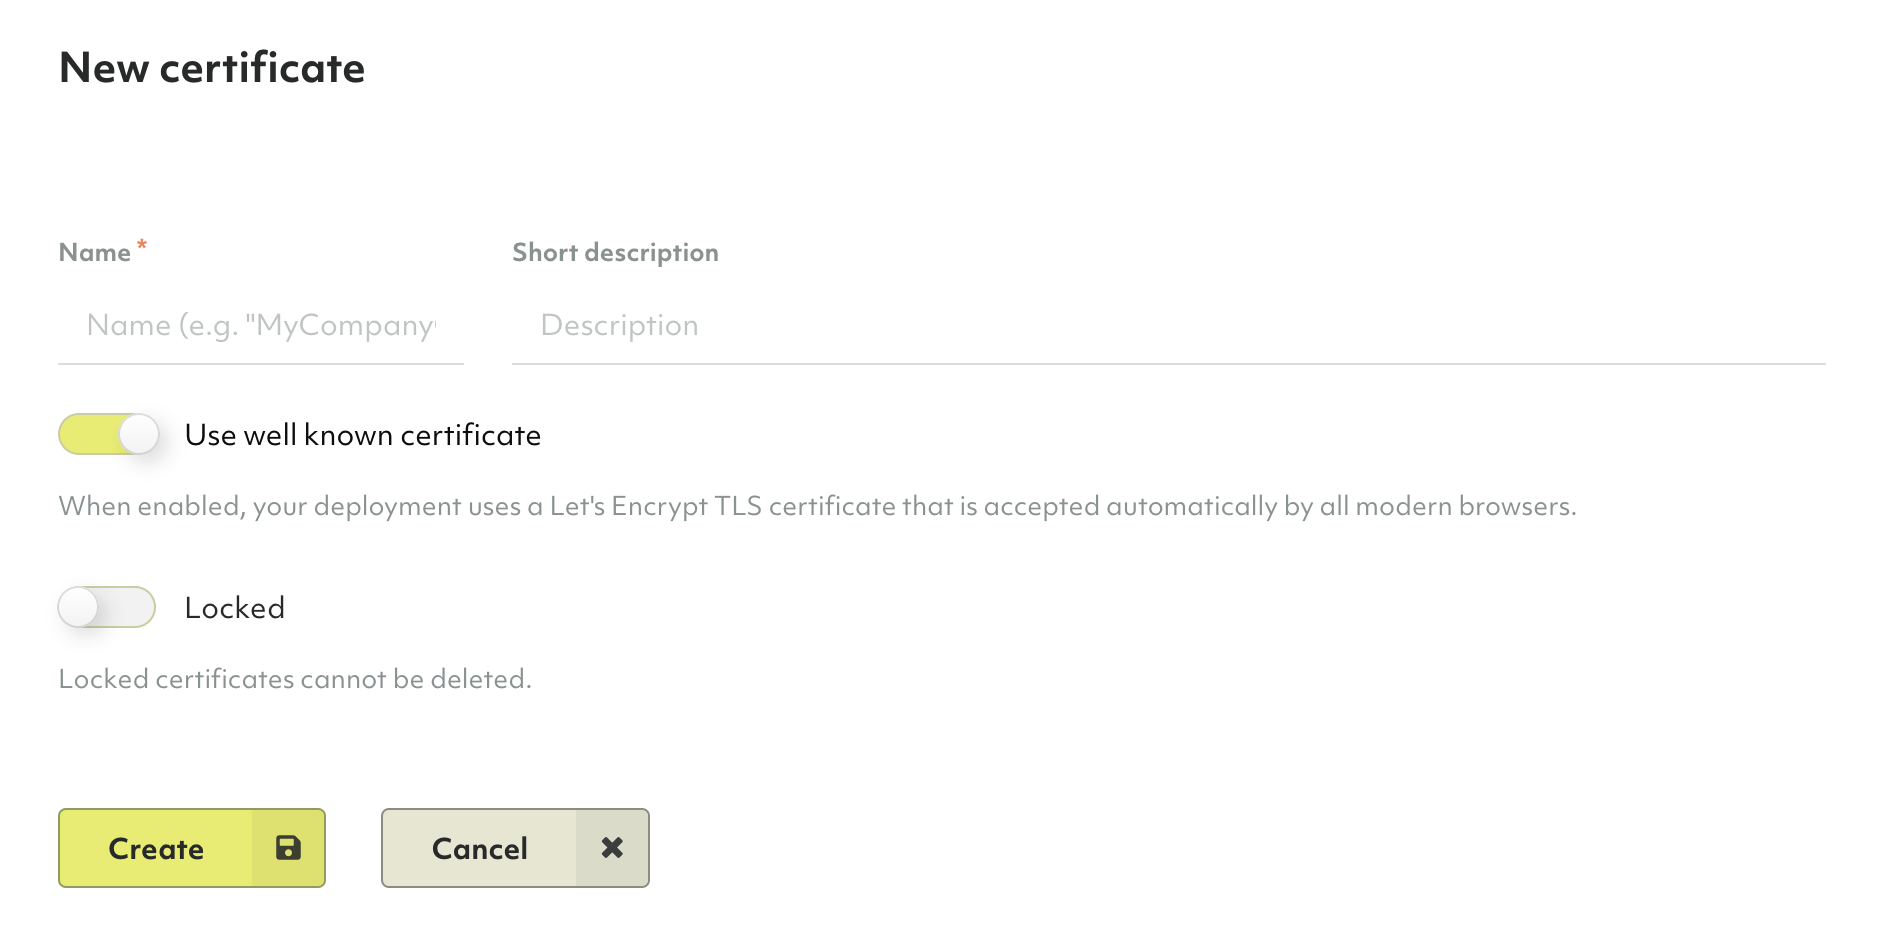
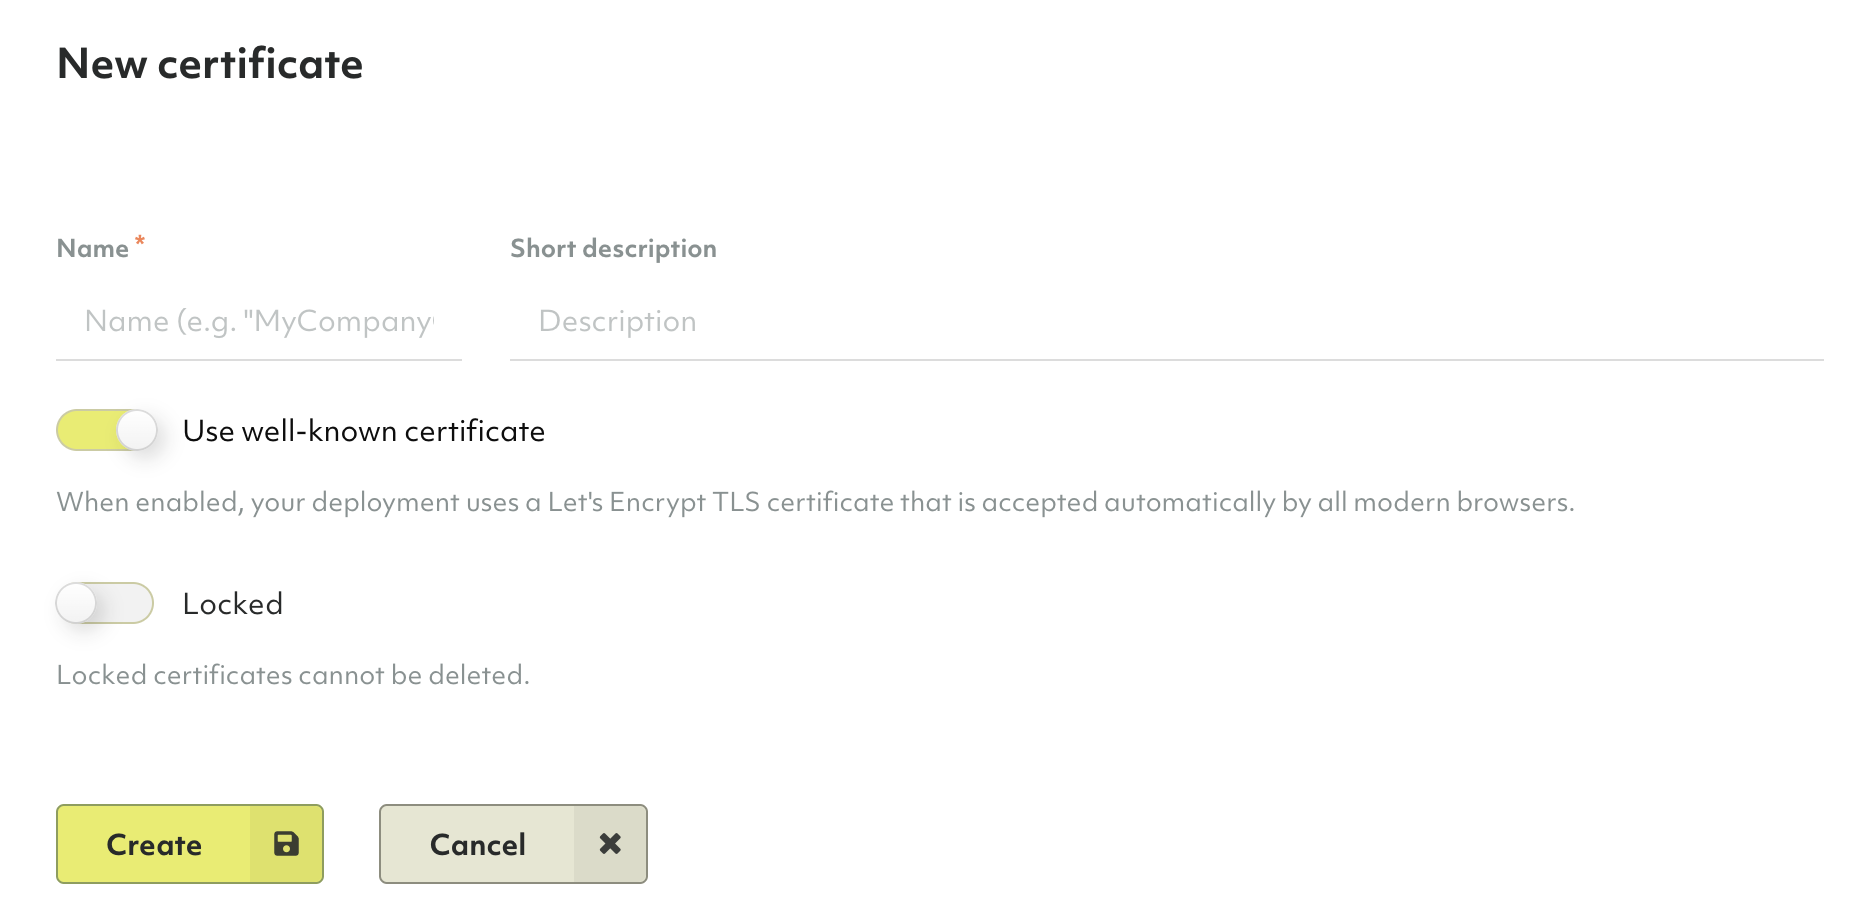
DOC-389 | Improve Certificates in ArangoGraph (#1297)
* rework arangograph certificates

* fix broken link

* Apply suggestions from code review

* Apply suggestions from code review

* apply suggestions

* well known > well-known

* updated screenshots

* Update certificates.md

---------

diff --git a/arangograph/certificates.md b/arangograph/certificates.md
@@ -1,0 +1,155 @@
+---
+layout: default
+description: >-
+  X.509 certificates in ArangoGraph are utilized for encrypted remote administration.
+  The communication with and between the servers of an ArangoGraph deployment is
+  encrypted using the TLS protocol
+---
+# X.509 Certificates
+
+{{ page.description }}
+{:class="lead"}
+
+X.509 certificates are digital certificates that are used to verify the
+authenticity of a website, user, or organization using a public key infrastructure
+(PKI). They are used in various applications, including SSL/TLS encryption,
+which is the basis for HTTPS - the primary protocol for securing communication
+and data transfer over a network.
+
+The X.509 certificate format is a standard defined by the
+[International Telecommunication Union (ITU)](https://www.itu.int/en/Pages/default.aspx){:target="_blank"}
+and contains information such as the name of the certificate holder, the public
+key associated with the certificate, the certificate's issuer, and the
+certificate's expiration date. An X.509 certificate can be signed by a
+certificate authority (CA) or self-signed.
+
+ArangoGraph is using:
+- **well-known X.509 certificates** created by
+[Let's Encrypt](https://letsencrypt.org/){:target="_blank"}
+- **self-signed X.509 certificates** created by ArangoGraph platform
+
+## Certificate chains
+
+A certificate chain, also called the chain of trust, is a hierarchical structure
+that links together a series of digital certificates. The trust in the chain is
+established by verifying the identity of the issuer of each certificate in the
+chain. The root of the chain is a trusted third-party, such as a certificate
+authority (CA). The CA issues a certificate to an organization, which in turn
+can issue certificates to servers and other entities. 
+
+For example, when you visit a website with an SSL/TLS certificate, the browser
+checks the chain of trust to verify the authenticity of the digital certificate.
+The browser checks to see if the root certificate is trusted, and if it is, it
+trusts the chain of certificates that lead to the end-entity certificate.
+If any of the certificates in the chain are invalid, expired, or revoked, the
+browser does not trust the digital certificate.
+
+## X.509 certificates in ArangoGraph
+
+Each ArangoGraph deployment is accessible on two different port numbers:
+- default port `8529`
+- high port `18529`
+
+Each ArangoGraph Notebook is accessible on two different port numbers:
+- default port `8840`
+- high port `18840`
+
+Metrics are accessible on two different port numbers:
+- default port `8829`
+- high port `18829`
+
+The distinction between these port numbers is in the certificate used for the
+TLS connection.
+
+### Well-known X.509 certificates
+
+**Well-known X.509 certificates** created by
+[Let's Encrypt](https://letsencrypt.org/){:target="_blank"} are used on the
+default ports, i.e. `8529`.
+
+This type of certificate has a lifetime of 5 years and is rotated automatically.
+It is recommended to use well-known certificates, as this eases access of a
+deployment in your browser.
+
+{% hint 'info' %}
+The well-known certificate is a wildcard certificate and cannot contain
+Subject Alternative Names (SANs). To include a SAN field, which is needed
+for private endpoints, please use the self-signed certificate option.
+{% endhint %}
+
+### Self-signed X.509 certificates
+
+**Self-signed X.509 certificates** are used on the high ports, i.e. `18529`.
+This type of certificate has a lifetime of 1 year, and it is created by the
+ArangoGraph platform. It is also rotated automatically before the expiration
+date.
+
+{% hint 'info' %}
+Unless you switch off the **Use well-known certificate** option in the
+certificate generation, both the default and high port serve the same
+self-signed certificate.
+{% endhint %}
+
+### Subject Alternative Name (SAN)
+
+The Subject Alternative Name (SAN) is an extension to the X.509 specification 
+that allows you to specify additional host names for a single SSL certificate.
+
+When using [private endpoints](deployments.html#how-to-create-a-private-endpoint-deployment),
+you can specify alternate domain names. Note that these are added **only** to
+the self-signed certificate as Subject Alternative Name (SAN).
+
+## How to create a new certificate
+
+1. Click a project name in the **Projects** section of the main navigation.
+2. Click the **Security** tab.
+3. In the **Certificates** section, click:
+   - The **New certificate** button to create a new certificate.
+   - A name or the **eye** icon in the **Actions** column to view a certificate.
+     The dialog that opens provides commands for installing and uninstalling
+     the certificate through a console.
+   - The **pencil** icon to edit a certificate.
+     You can also view a certificate and click the **Edit** button.
+   - The **tag** icon to make the certificate the new default.
+   - The **recycle bin** icon to delete a certificate.
+
+![ArangoGraph Create New Certificate](images/arangograph-new-certificate.png)
+
+Certificates that have the **Use well-known certificate** option enabled do
+not need any installation and are supported by almost all web browsers
+automatically.
+
+When creating a self-signed certificate that has the **Use well-known certificate**
+option disabled, the certificate needs to be installed on your local machine as
+well. This operation varies between operating systems.
+
+![ArangoGraph Certificates](images/arangograph-cert-page-with-cert-present.png)
+
+![ArangoGraph Certificate Install Instructions](images/arangograph-cert-install-instructions.png)
+
+## How to connect to your application
+
+[ArangoDB drivers](../drivers/index.html), also called connectors, allow you to
+easily connect ArangoGraph deployments to your application. 
+
+1. Navigate to the **Deployments** tab and click the **View** button to show the
+   deployment page.
+2. In the Quick start section, click the **Connecting drivers** button.
+3. Select your programming language, i.e. Go, Java, Python, etc.
+4. Follow the examples to connect a driver to your deployment. They include
+   code examples on how to use certificates in your application.
+
+![ArangoGraph Connecting Drivers](images/arangograph-connecting-drivers.png)
+
+## Certificate Rotation
+
+Every certificate has a self-signed root certificate that is going to expire.
+When certificates that are used in existing deployments are about to expire,
+an automatic rotation of the certificates is triggered. This means that the
+certificate is cloned (all existing settings are copied over to a new certificate)
+and all affected deployments then start using the cloned certificate. 
+
+Based on the type of certificate used, you may also need to install the new
+certificate on your local machine. For example, self-signed certificates require
+installation. To prevent any downtime, it is recommended to manually create a
+new certificate and apply the required changes prior to the expiration date.

diff --git a/arangograph/projects.md b/arangograph/projects.md
@@ -85,94 +85,6 @@ You can create an allowlist as part of a project.
      You can also view the allowlist and click the __Edit__ button.
    - The __recycle bin__ icon to delete the allowlist.
 
-## How to manage certificates
-
-Certificates are utilized for encrypted remote administration. The communication
-with and between the servers of an ArangoGraph deployment is encrypted using the
-TLS protocol.
-
-Each ArangoGraph deployment is accessible on two different port numbers:
-- default port `8529`
-- high port `18529`
-
-Each ArangoGraph Notebook is accessible on two different port numbers:
-- default port `8840`
-- high port `18840`
-
-Metrics are accessible on two different port numbers:
-- default port `8829`
-- high port `18829`
-
-The distinction between these port numbers is in the certificate used for the
-TLS connection.
-
-On the default ports, a **well known X509 certificate** created by
-[Let's Encrypt](https://letsencrypt.org/){:target="_blank"} is being used. This
-certificate has a lifetime of 5 years and is rotated automatically. It is
-recommended to use Well known certificates, as this eases the access of a
-deployment in your browser.
-
-On the high ports, a **self-signed X509 certificate** is being used. This
-certificate has a lifetime of one year and it is automatically created by the
-ArangoGraph platform. It is also rotated automatically before the expiration
-date.
-
-{% hint 'info' %}
-Unless you switch off the **Use well known certificate** option in the
-certificate generation, both the default and high port serve the same
-self-signed certificate.
-{% endhint %}
-
-When using [private endpoints](deployments.html#how-to-create-a-private-endpoint-deployment),
-[notebooks](notebooks.html), and [metrics](monitoring-metrics.html), you can specify 
-alternate domain names which are added only to the self-signed certificate
-as Subject Alternative Name (SAN). 
-
-The Subject Alternative Name (SAN) is an extension to the X. 509 specification 
-that allows you to specify additional host names for a single SSL certificate.
-The SAN is **not** included in the well known certificate generated by
-Let's Encrypt.
-
-![ArangoGraph Create New Certificate](images/arangograph-new-certificate.png)
-
-Certificates that have the __Use well known certificate__ option enabled do
-not need any installation and will be supported by almost all web-browsers
-automatically.
-
-When creating a certificate that has the __Use well known certificate__ option
-disabled, the certificate needs to be installed on
-your local machine as well. This operation slightly varies between operating
-systems.
-
-1. Click a project name in the __Projects__ section of the main navigation.
-2. Click the __Security__ tab.
-3. In the __Certificates__ section, click:
-   - The __New certificate__ button to create a new certificate.
-   - A name or the __eye__ icon in the __Actions__ column to view a certificate.
-     The dialog that opens provides commands for installing and uninstalling
-     the certificate through a console.
-   - The __pencil__ icon to edit a certificate.
-     You can also view a certificate and click the __Edit__ button.
-   - The __tag__ icon to make the certificate the new default.
-   - The __recycle bin__ icon to delete a certificate.
-
-![ArangoGraph Certificates](images/arangograph-cert-page-with-cert-present.png)
-
-![ArangoGraph Certificate Install Instructions](images/arangograph-cert-install-instructions.png)
-
-### Certificate Rotation
-
-Every certificate has a self-signed root certificate that is going to expire.
-When certificates that are used in existing deployments are about to expire,
-an automatic rotation of the certificates is triggered. This means that the
-certificate is cloned and all affected deployments then start using
-the cloned certificate. 
-
-Based on the type of certificate used, you may also need to install the new
-certificate on your local machine. To prevent any downtime, it is recommended to
-manually create a new certificate and apply the required changes prior
-to the expiration date. 
-
 ## How to manage role bindings
 
 See:

diff --git a/3.10/quick-start-in-the-cloud.md b/3.10/quick-start-in-the-cloud.md
@@ -137,7 +137,7 @@ example datasets and manage projects and deployments.
 Alternatively, follow the steps of the linked guides:
 - [Create a new project](arangograph/projects.html#how-to-create-a-new-project) (optional)
 - [Create a new deployment](arangograph/deployments.html#how-to-create-a-new-deployment)
-- [Install a new certificate](arangograph/projects.html#how-to-manage-certificates) (optional)
+- [Install a new certificate](arangograph/certificates.html) (optional)
 - [Access your deployment](arangograph/deployments.html#how-to-access-your-deployment)
 - [Delete your deployment](arangograph/deployments.html#how-to-delete-a-deployment)
 

diff --git a/3.11/quick-start-in-the-cloud.md b/3.11/quick-start-in-the-cloud.md
@@ -137,7 +137,7 @@ example datasets and manage projects and deployments.
 Alternatively, follow the steps of the linked guides:
 - [Create a new project](arangograph/projects.html#how-to-create-a-new-project) (optional)
 - [Create a new deployment](arangograph/deployments.html#how-to-create-a-new-deployment)
-- [Install a new certificate](arangograph/projects.html#how-to-manage-certificates) (optional)
+- [Install a new certificate](arangograph/certificates.html) (optional)
 - [Access your deployment](arangograph/deployments.html#how-to-access-your-deployment)
 - [Delete your deployment](arangograph/deployments.html#how-to-delete-a-deployment)
 

diff --git a/arangograph/overview.md b/arangograph/overview.md
@@ -35,6 +35,6 @@ example datasets and manage projects and deployments.
 Alternatively, follow the steps of the linked guides:
 - [Create a new project](projects.html#how-to-create-a-new-project) (optional)
 - [Create a new deployment](deployments.html#how-to-create-a-new-deployment)
-- [Install a new certificate](projects.html#how-to-manage-certificates) (optional)
+- [Install a new certificate](certificates.html) (optional)
 - [Access your deployment](deployments.html#how-to-access-your-deployment)
 - [Delete your deployment](deployments.html#how-to-delete-a-deployment)

diff --git a/arangograph/deployments.md b/arangograph/deployments.md
@@ -262,8 +262,7 @@ Private endpoints on Microsoft Azure can be cross region; in AWS they should be 
 
 {% hint 'info' %}
 For more information about the certificates used for private endpoints, please
-refer to the [How to manage certificates](projects.html#how-to-manage-certificates)
-section.
+refer to the [Certificates](certificates.html) page.
 {% endhint %}
 
 ### Google Cloud Platform
